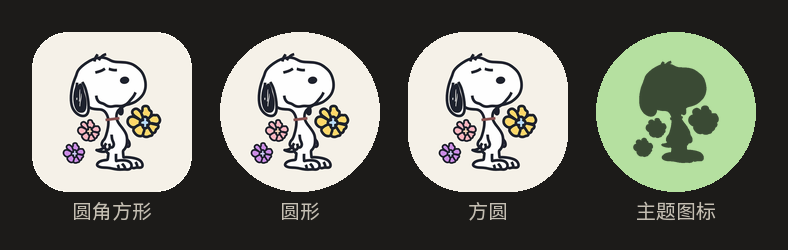
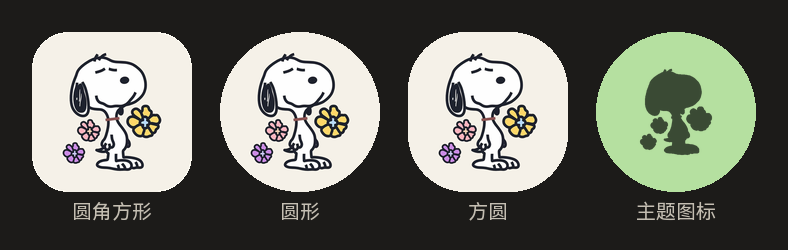
图标：自适应前景缩到 0.54，整张贴纸不再被圆形遮罩切角
- FG_RATIO 0.64 → 0.54：圆形遮罩可见直径 72/108，art 包围盒对角线 = 1.303×高，0.54 时整图落在圆内且四边留白
- versionCode 3 → 4，让桌面丢掉旧图标缓存
- 文档补上这条换算关系

Changed region(s): [[0.7919, 0.224, 0.9137, 0.672]]

diff --git a/design/build_brand.py b/design/build_brand.py
@@ -36,8 +36,9 @@ FONT_REGULAR = FONT_DIR / "HarmonyOS_Sans_SC_Regular.ttf"
 FONT_FALLBACK = Path("C:/Windows/Fonts/simsun.ttc")
 SS = 4  # 超采样倍数
 
-# 自适应图标：内容要落在 72/108 的安全区里，留出被裁成圆形/方形的余量
-FG_RATIO = 0.64
+# 自适应图标：圆形遮罩的可见直径是 72/108，图形包围盒的对角线必须小于它才不会被切角
+# art 宽高比 ≈ 0.835 → 对角线 = 1.303 × 高；0.51 正好内切，取 0.50 再留一点余量
+FG_RATIO = 0.54
 # 桌面图标里图形的占比（其余是纸色留白）
 ICON_RATIO = 0.74
 

diff --git a/README.md b/README.md
@@ -67,7 +67,7 @@ JAVA_HOME='C:\Program Files\Java\jdk-17' /c/Android/gradle-8.9/bin/gradle.bat -p
 
 > 当前为 debug 签名，可直接侧载安装；上架应用商店需要换成自己的 release keystore。
 
-图标源图是一张贴纸，脚本会先洪泛抠掉白底再排版；系统开了「主题图标」时，安卓会用自己的取色替换底色、走脚本生成的 `ic_launcher_monochrome` 单色层，这是系统行为，不是图标本身的问题。
+图标源图是一张贴纸，脚本会先洪泛抠掉白底再排版；自适应图标的前景只占画布的 54%（圆形遮罩可见直径是 72/108，图形包围盒对角线要小于它），所以桌面上的小狗是完整的、四边都有留白，不会被圆角或圆形切掉；系统开了「主题图标」时，安卓会用自己的取色替换底色、走脚本生成的 `ic_launcher_monochrome` 单色层，这是系统行为，不是图标本身的问题。
 改 App 名字或配色时：改 `design/build_brand.py` 顶部的常量 → `python design/build_brand.py` → 重新 `cap copy` 并打包，图标、各密度启动图、favicon 会一起更新。
 换图标就替换 `design/icon-src/mascot.png`（带白底的手绘贴纸也行，脚本会自己抠白底）：先洪泛抠图 → 缩进纸色圆角卡片 → 铺 5 个密度的自适应图标、圆形图标、单色主题图标，再生成 11 张启动图和 favicon。
 

diff --git a/CHANGELOG.md b/CHANGELOG.md
@@ -2,6 +2,8 @@
 
 ## 未发布
 
+- 桌面图标不再被裁切：自适应图标前景比例从 0.64 降到 0.54（圆形遮罩可见直径 72/108，图形包围盒对角线必须小于它），整张贴纸连花带脚完整落在图标里，四边都有留白。
+
 - 品牌印章换成那只抱花的小狗：页头、我的页（大号 / 页脚小号）、引导页、记账成功小票都用同一枚印章 —— 纸色卡片 + 裁好的头部贴纸 + 1.5px 朱砂细线（线画在图的上面，不会被贴纸盖住）。
 - 小票上的「已入账 / 已更新」章改成「爪印 + 文字」的双圈朱章。
 - 新增 `design/build_brand.py` 里的 `seal_head()`：从整张贴纸裁出头、擦掉花和项圈、输出 `src/assets/mascot-head.png`（320px），改图后重跑脚本即可。
